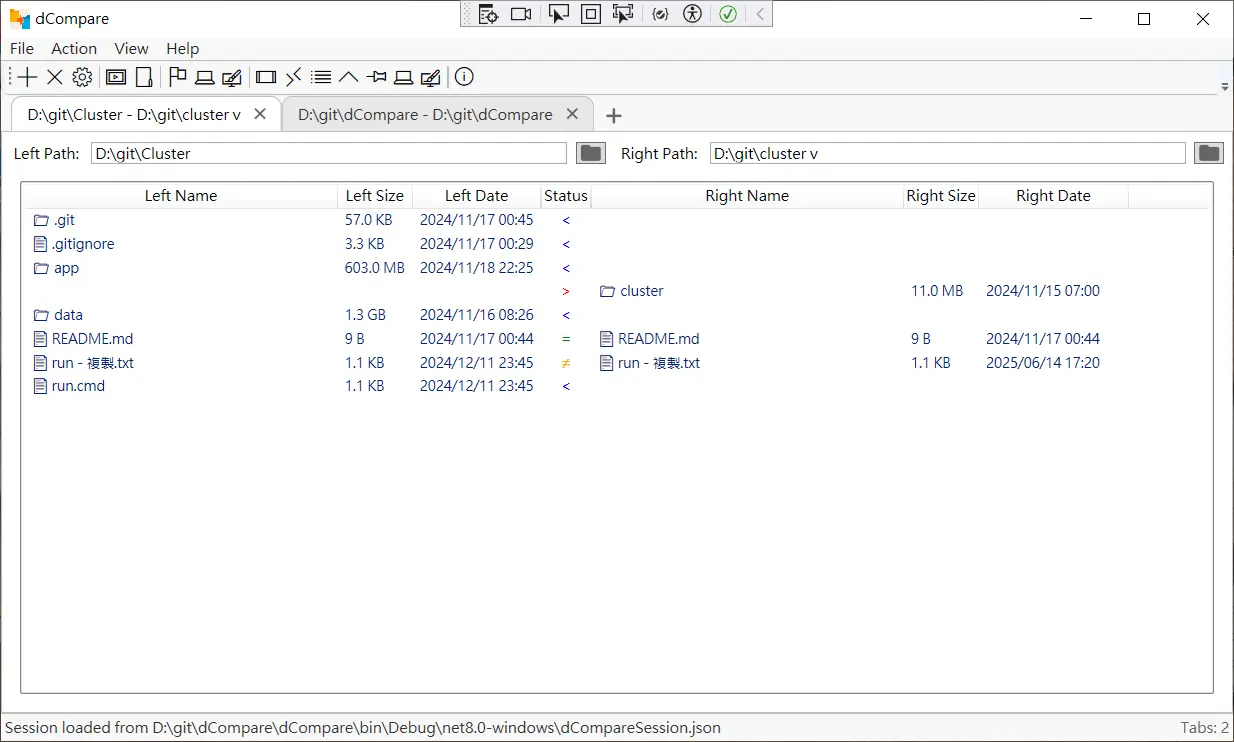
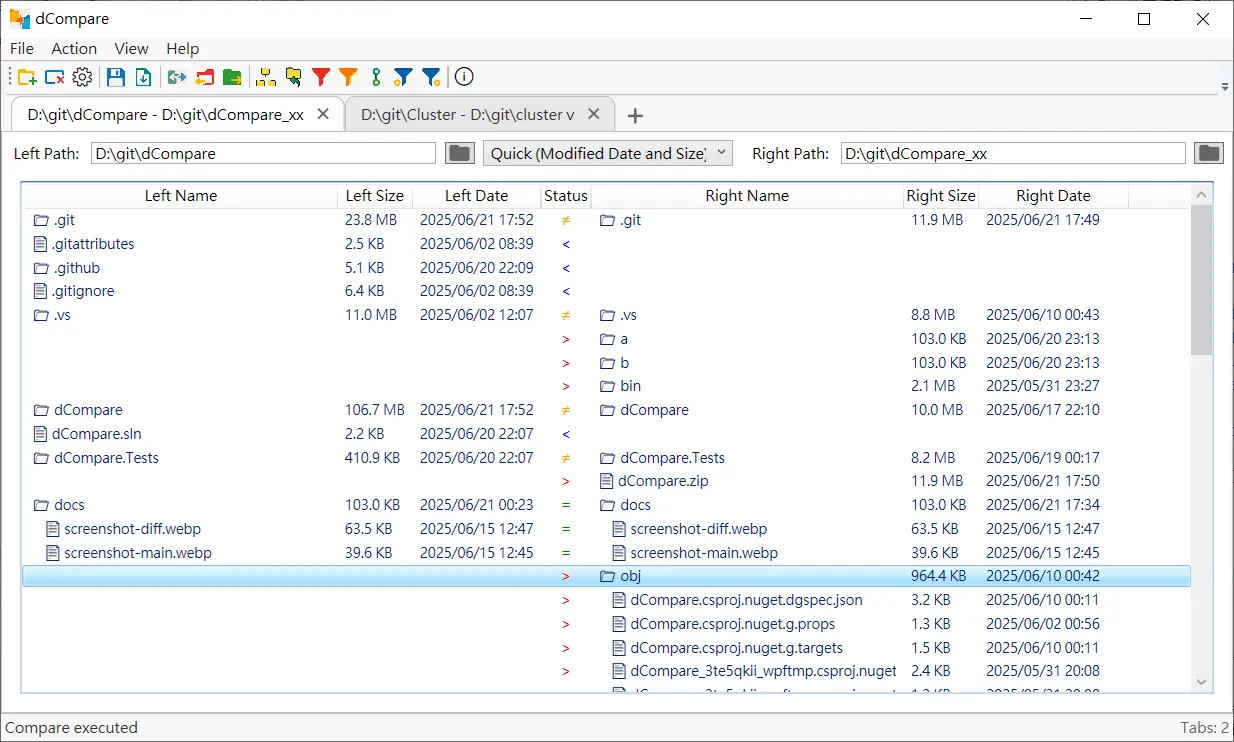
Modify READMD

diff --git a/README.md b/README.md
@@ -1,15 +1,29 @@
-# dCompare - A Directory/File Comparision Tool
+# dCompare - A Directory/File Comparison Tool
 
-![MainWindow ](docs/screenshot-main.webp)
+<a href="docs/screenshot-main.webp">
+  <img src="docs/screenshot-main.webp" alt="MainWindow" width="500">
+</a>
 
 **Disclosure**: Approximately 80% of this project's code was generated with the assistance of AI tools.
 
 ## Features
 
-- **Directory Comparison**: Compare folder structures to identify differences in files and subdirectories.
-- **File Operations**: Copy or move files between directories directly within the application.
-- **Text File Comparison**: View differences in text files (e.g., .txt, .cs, .json, .xml) side by side with color-coded highlights for insertions, deletions, and unchanged content.
-- **Image Comparison**: Display two images side by side for visual comparison, with automatic scaling to fit the window while preserving aspect ratio.
+- **Directory Comparison**: Compare folder structures to identify differences in files and subdirectories, with a side-by-side view showing file names, sizes, dates, and status symbols (e.g., identical, different, unique to left/right).
+- **Tabbed Interface**: Supports multiple comparison sessions in a Chrome-style tabbed layout, with drag-and-drop tab reordering, close buttons, and keyboard shortcuts (e.g., Ctrl+N for new tab, Ctrl+W to close tab).
+- **File Operations**: Copy or move files between directories directly within the application, with a dedicated file operation window showing queued, successful, and failed transfers, including progress, speed, and filtering capabilities.
+- **Text File Comparison**: View differences in text files (e.g., .txt, .cs, .json, .xml) side-by-side using DiffPlex, with color-coded highlights for insertions (green), deletions (red), and unchanged content, displayed in a scrollable ListBox with Consolas font.
+- **Image Comparison**: Display two images side-by-side for visual comparison, with automatic scaling to fit the window while preserving aspect ratio, using ScrollViewer for large images.
+- **Context Menus**: Right-click context menus on comparison results provide actions like comparing contents, copying/moving files, deleting, renaming, opening file locations, copying paths/filenames, and viewing properties.
+- **Session Management**: Save and load comparison sessions (Ctrl+S, Ctrl+O), with recent sessions accessible via the File menu, and options to auto-load default sessions on startup.
+- **Customizable Settings**: Configure via a settings window with sections for:
+  - UI (theme, language)
+  - Comparison algorithm and double-click action
+  - Text and image diff viewers with customizable file extensions
+  - Session settings (default session file, auto-load/compare)
+  - Hotkeys for various commands
+  - Logging (enable/disable, log level, retention days)
+- **Toolbar and Menu**: Unified menu and toolbar with icons for quick access to common actions like compare (Ctrl+R), copy to left/right, expand/collapse all, and filtering options (show all, different, identical, unique).
+- **Progress Feedback**: Displays comparison progress with a cancelable overlay showing percentage and a progress bar, plus a status bar indicating tab count and application status.
 
 ## Planned Features
 
@@ -17,13 +31,14 @@
 - **Archive File Support**: Add support for comparing archive files (e.g., .zip) using libraries like [SharpZipLib](https://github.com/icsharpcode/SharpZipLib).
 - **JSON-Specific Comparison**: Implement specialized comparison for JSON files to highlight structural differences.
 - **File Explorer Integration**: Associate dCompare with Windows File Explorer for quick access to comparisons.
-- **Customizable Double-Click Behavior**: Allow users to choose whether double-clicking a file opens a comparison view or displays file content.
-- **Custom Diff Viewer Selection**: Enable selection of diff viewers based on file extensions.
+- **Customizable Double-Click Behavior**: Allow users to choose whether double-clicking a file opens a comparison view or displays file content (currently configurable in settings).
+- **Custom Diff Viewer Selection**: Enable selection of diff viewers based on file extensions (partially implemented in settings).
 - **External Editor Support**: Configure a default external editor (e.g., Notepad by default at `%windir%\NOTEPAD.EXE`) for viewing or editing files.
 
 ## Known Issues
 
 - **Text Selection**: Partial text selection with the mouse is not supported in the text comparison view.
+- **Image Comparison**: No pixel-level difference highlighting in the image comparison view.
 
 ## Development
 
@@ -33,46 +48,46 @@
 - **DiffPlex**: Used for text file comparison. See [DiffPlex on GitHub](https://github.com/mmanela/diffplex).
 - **Serilog**: Used for logging application events and debugging.
 
-# 文件複製方法比較 (by ChatGPT)
+# File Copy Method Comparison (by ChatGPT)
 
-以下表格比較了在 .NET 8 中使用 `CopyFileEx`、`.NET File.Copy` 和 `FileStream` 三種方法進行文件和目錄複製的特性，針對需求：Windows 10 或以上、複製目錄、需要進度回調、保留元數據（如時間戳）、無複製視窗。
+Below is a table comparing three methods for file and directory copying in .NET 8—`CopyFileEx`, `.NET File.Copy`, and `FileStream`—based on requirements: Windows 10 or above, directory copying, progress callbacks, metadata preservation (e.g., timestamps), and no copy window.
 
-| **特性**                | **CopyFileEx**                                                                                                                                                                                                                                                                                                                                                  | **.NET File.Copy**                                                                                                                                                                                                                                          | **FileStream**                                                                                                                                                                                                                                                                                                                                                                                                                  |
-| ----------------------- | --------------------------------------------------------------------------------------------------------------------------------------------------------------------------------------------------------------------------------------------------------------------------------------------------------------------------------------------------------------- | ----------------------------------------------------------------------------------------------------------------------------------------------------------------------------------------------------------------------------------------------------------- | ------------------------------------------------------------------------------------------------------------------------------------------------------------------------------------------------------------------------------------------------------------------------------------------------------------------------------------------------------------------------------------------------------------------------------- |
-| **描述**                | Windows API 函數（`kernel32.dll`），低級文件複製，接近 `explorer.exe` 行為。                                                                                                                                                                                                                                                                                    | .NET 8 高級方法，封裝底層 API，簡單易用。                                                                                                                                                                                                                   | .NET 低級流式 I/O 類，靈活控制文件讀寫。                                                                                                                                                                                                                                                                                                                                                                                        |
-| **平台支持**            | 僅限 Windows（符合 Windows 10+ 需求）。                                                                                                                                                                                                                                                                                                                         | 跨平台（Windows、Linux、macOS）。                                                                                                                                                                                                                           | 跨平台（Windows、Linux、macOS）。                                                                                                                                                                                                                                                                                                                                                                                               |
-| **複製目錄**            | 需手寫遞歸遍歷文件和子目錄。                                                                                                                                                                                                                                                                                                                                    | 需手寫遞歸遍歷文件和子目錄。                                                                                                                                                                                                                                | 需手寫遞歸遍歷文件和子目錄。                                                                                                                                                                                                                                                                                                                                                                                                    |
-| **進度回調**            | **支持**：通過 `lpProgressRoutine` 提供單文件複製進度（已複製字節數），需手動計算目錄總進度。                                                                                                                                                                                                                                                                   | **不支持**：無進度回調，需改用 `FileStream` 手動計算。                                                                                                                                                                                                      | **支持**：通過計算已讀寫字節數實現，需手動累計目錄總進度。                                                                                                                                                                                                                                                                                                                                                                      |
-| **取消功能**            | **支持**：通過 `pbCancel` 布林值中途終止，類似 `explorer.exe` 取消按鈕。取消後需清理不完整文件。                                                                                                                                                                                                                                                                | **不支持**：除非異常，無法中途終止，需等待完成或終止進程。                                                                                                                                                                                                  | **支持**：通過 `CancellationToken` 在異步讀寫中實現，取消後需清理不完整文件。                                                                                                                                                                                                                                                                                                                                                   |
-| **元數據保留**          | **自動保留**：創建時間、修改時間、訪問時間、文件屬性（如只讀、隱藏）默認保留，無需額外代碼。                                                                                                                                                                                                                                                                    | **不保留**：目標文件時間戳設為當前時間，需用 `FileInfo` 手動設置（約 3-4 行/文件）。                                                                                                                                                                        | **不保留**：需用 `FileInfo` 手動設置元數據，與 `File.Copy` 相同。                                                                                                                                                                                                                                                                                                                                                               |
-| **效能**                | **略優**：直接調用 Windows API，無 .NET 運行時開銷，速度最快（差距 <1-2%）。                                                                                                                                                                                                                                                                                    | **略弱**：封裝底層 API，有少量 .NET 開銷。                                                                                                                                                                                                                  | **略弱**：.NET 流管理和運行時開銷，速度略低於 `CopyFileEx`，可通過調整緩衝區優化。                                                                                                                                                                                                                                                                                                                                              |
-| **內存使用**            | 流式複製，緩衝區大小由系統控制（通常 4KB-64KB），適合大文件。                                                                                                                                                                                                                                                                                                   | 流式複製，緩衝區由 .NET 管理，內存占用相近。                                                                                                                                                                                                                | 流式複製，緩衝區大小可自定義（例如 8KB），內存占用相近。                                                                                                                                                                                                                                                                                                                                                                        |
-| **異步支持**            | 同步 API，需通過 `Task` 封裝異步。                                                                                                                                                                                                                                                                                                                              | 同步方法，無原生異步，需改用 `FileStream`。                                                                                                                                                                                                                 | **原生支持**：`ReadAsync`/`WriteAsync` 提供異步，適合現代應用。                                                                                                                                                                                                                                                                                                                                                                 |
-| **易用性**              | **較複雜**：需 P/Invoke，實現進度/取消功能需處理回調和錯誤碼。                                                                                                                                                                                                                                                                                                  | **最簡單**：直接調用，異常處理符合 .NET 風格，但元數據需額外代碼。                                                                                                                                                                                          | **複雜**：需手動管理緩衝區、進度、取消和元數據，代碼量較多。                                                                                                                                                                                                                                                                                                                                                                    |
-| **錯誤處理**            | 使用 Windows 錯誤碼（`GetLastWin32Error`），需查閱文檔，調試較繁瑣。                                                                                                                                                                                                                                                                                            | .NET 異常（`IOException` 等），清晰易讀，調試友好。                                                                                                                                                                                                         | .NET 異常，與 `File.Copy` 相同，易於調試。                                                                                                                                                                                                                                                                                                                                                                                      |
-| **模擬 `explorer.exe`** | **最接近**：自動保留元數據，支持取消和進度回調，行為類似 `explorer.exe`。                                                                                                                                                                                                                                                                                       | **較弱**：需手動設置元數據，無進度/取消支持，模擬效果差。                                                                                                                                                                                                   | **中等**：支持進度和取消，但元數據需手動設置，模擬效果不如 `CopyFileEx`。                                                                                                                                                                                                                                                                                                                                                       |
-| **無複製視窗**          | **滿足**：純 API，無 GUI。                                                                                                                                                                                                                                                                                                                                      | **滿足**：無 GUI。                                                                                                                                                                                                                                          | **滿足**：無 GUI。                                                                                                                                                                                                                                                                                                                                                                                                              |
-| **代碼示例（單文件）**  | `csharp<br>[DllImport("kernel32.dll", SetLastError = true, CharSet = CharSet.Auto)]<br>private static extern bool CopyFileEx(string lpExistingFileName, string lpNewFileName, IntPtr lpProgressRoutine, IntPtr lpData, ref bool pbCancel, uint dwCopyFlags);<br>bool cancel = false;<br>CopyFileEx(source, dest, IntPtr.Zero, IntPtr.Zero, ref cancel, 0);<br>` | `csharp<br>File.Copy(source, dest, true);<br>FileInfo destInfo = new FileInfo(dest);<br>destInfo.CreationTime = sourceInfo.CreationTime;<br>destInfo.LastWriteTime = sourceInfo.LastWriteTime;<br>destInfo.LastAccessTime = sourceInfo.LastAccessTime;<br>` | `csharp<br>using FileStream sourceStream = File.OpenRead(source);<br>using FileStream destStream = File.Create(dest);<br>byte[] buffer = new byte[8192];<br>while ((bytesRead = await sourceStream.ReadAsync(buffer, 0, buffer.Length, token)) > 0) {<br>    await destStream.WriteAsync(buffer, 0, bytesRead, token);<br>}<br>FileInfo destInfo = new FileInfo(dest);<br>destInfo.CreationTime = sourceInfo.CreationTime;<br>` |
-| **針對需求評價**        | **最佳**：滿足所有需求（進度、取消、元數據、無 GUI），效能略優，代碼適中。                                                                                                                                                                                                                                                                                      | **不適合**：無進度/取消支持，元數據需手動設置，不滿足需求。                                                                                                                                                                                                 | **可行但次優**：支持進度和取消，但元數據需手動設置，代碼複雜，效能略低。                                                                                                                                                                                                                                                                                                                                                        |
+| **Feature**                      | **CopyFileEx**                                                                                                                                                                                                                                                                                                                                                  | **.NET File.Copy**                                                                                                                                                                                                                                          | **FileStream**                                                                                                                                                                                                                                                                                                                                                                                                                  |
+| -------------------------------- | --------------------------------------------------------------------------------------------------------------------------------------------------------------------------------------------------------------------------------------------------------------------------------------------------------------------------------------------------------------- | ----------------------------------------------------------------------------------------------------------------------------------------------------------------------------------------------------------------------------------------------------------- | ------------------------------------------------------------------------------------------------------------------------------------------------------------------------------------------------------------------------------------------------------------------------------------------------------------------------------------------------------------------------------------------------------------------------------- |
+| **Description**                  | Windows API function (`kernel32.dll`), low-level file copy, mimics `explorer.exe` behavior.                                                                                                                                                                                                                                                                     | .NET 8 high-level method, encapsulates underlying API, simple to use.                                                                                                                                                                                       | .NET low-level stream I/O class, flexible control over file read/write.                                                                                                                                                                                                                                                                                                                                                         |
+| **Platform Support**             | Windows only (meets Windows 10+ requirement).                                                                                                                                                                                                                                                                                                                   | Cross-platform (Windows, Linux, macOS).                                                                                                                                                                                                                     | Cross-platform (Windows, Linux, macOS).                                                                                                                                                                                                                                                                                                                                                                                         |
+| **Directory Copy**               | Requires manual recursive traversal of files and subdirectories.                                                                                                                                                                                                                                                                                                | Requires manual recursive traversal of files and subdirectories.                                                                                                                                                                                            | Requires manual recursive traversal of files and subdirectories.                                                                                                                                                                                                                                                                                                                                                                |
+| **Progress Callback**            | **Supported**: Via `lpProgressRoutine`, provides per-file copy progress (bytes copied), requires manual directory progress calculation.                                                                                                                                                                                                                         | **Not Supported**: No progress callbacks, requires `FileStream` for manual calculation.                                                                                                                                                                     | **Supported**: Via tracking bytes read/written, requires manual directory progress accumulation.                                                                                                                                                                                                                                                                                                                                |
+| **Cancel Functionality**         | **Supported**: Via `pbCancel` boolean, allows mid-operation termination, similar to `explorer.exe` cancel button. Requires cleanup of incomplete files post-cancel.                                                                                                                                                                                             | **Not Supported**: Cannot terminate mid-operation unless via exception or process termination.                                                                                                                                                              | **Supported**: Via `CancellationToken` in async read/write, requires cleanup of incomplete files post-cancel.                                                                                                                                                                                                                                                                                                                   |
+| **Metadata Preservation**        | **Automatic**: Preserves creation, modification, access times, and attributes (e.g., read-only, hidden) by default, no extra code needed.                                                                                                                                                                                                                       | **Not Preserved**: Sets target file timestamps to current time, requires manual setting via `FileInfo` (3-4 lines/file).                                                                                                                                    | **Not Preserved**: Requires manual setting of metadata via `FileInfo`, similar to `File.Copy`.                                                                                                                                                                                                                                                                                                                                  |
+| **Performance**                  | **Slightly Better**: Direct Windows API call, no .NET runtime overhead, fastest (<1-2% difference).                                                                                                                                                                                                                                                             | **Slightly Weaker**: Encapsulates underlying API, minor .NET overhead.                                                                                                                                                                                      | **Slightly Weaker**: .NET stream management and runtime overhead, slightly slower than `CopyFileEx`, optimizable via buffer size.                                                                                                                                                                                                                                                                                               |
+| **Memory Usage**                 | Streamed copy, buffer size system-controlled (typically 4KB-64KB), suitable for large files.                                                                                                                                                                                                                                                                    | Streamed copy, buffer managed by .NET, similar memory usage.                                                                                                                                                                                                | Streamed copy, customizable buffer size (e.g., 8KB), similar memory usage.                                                                                                                                                                                                                                                                                                                                                      |
+| **Async Support**                | Synchronous API, requires `Task` wrapping for async.                                                                                                                                                                                                                                                                                                            | Synchronous method, no native async, requires `FileStream` for async.                                                                                                                                                                                       | **Native Support**: `ReadAsync`/`WriteAsync` provide async, suitable for modern apps.                                                                                                                                                                                                                                                                                                                                           |
+| **Ease of Use**                  | **More Complex**: Requires P/Invoke, progress/cancel implementation needs callback and error code handling.                                                                                                                                                                                                                                                     | **Simplest**: Direct call, .NET-style exception handling, but metadata requires extra code.                                                                                                                                                                 | **Complex**: Requires manual buffer, progress, cancel, and metadata management, more code.                                                                                                                                                                                                                                                                                                                                      |
+| **Error Handling**               | Uses Windows error codes (`GetLastWin32Error`), requires documentation lookup, debugging tedious.                                                                                                                                                                                                                                                               | .NET exceptions (`IOException`, etc.), clear and readable, debug-friendly.                                                                                                                                                                                  | .NET exceptions, same as `File.Copy`, debug-friendly.                                                                                                                                                                                                                                                                                                                                                                           |
+| **Mimic `explorer.exe`**         | **Closest**: Auto-preserves metadata, supports cancel/progress, behaves like `explorer.exe`.                                                                                                                                                                                                                                                                    | **Weaker**: Requires manual metadata setting, no progress/cancel, poor mimicry.                                                                                                                                                                             | **Moderate**: Supports progress/cancel, but metadata requires manual setting, less mimicry than `CopyFileEx`.                                                                                                                                                                                                                                                                                                                   |
+| **No Copy Window**               | **Meets**: Pure API, no GUI.                                                                                                                                                                                                                                                                                                                                    | **Meets**: No GUI.                                                                                                                                                                                                                                          | **Meets**: No GUI.                                                                                                                                                                                                                                                                                                                                                                                                              |
+| **Code Example (Single File)**   | `csharp<br>[DllImport("kernel32.dll", SetLastError = true, CharSet = CharSet.Auto)]<br>private static extern bool CopyFileEx(string lpExistingFileName, string lpNewFileName, IntPtr lpProgressRoutine, IntPtr lpData, ref bool pbCancel, uint dwCopyFlags);<br>bool cancel = false;<br>CopyFileEx(source, dest, IntPtr.Zero, IntPtr.Zero, ref cancel, 0);<br>` | `csharp<br>File.Copy(source, dest, true);<br>FileInfo destInfo = new FileInfo(dest);<br>destInfo.CreationTime = sourceInfo.CreationTime;<br>destInfo.LastWriteTime = sourceInfo.LastWriteTime;<br>destInfo.LastAccessTime = sourceInfo.LastAccessTime;<br>` | `csharp<br>using FileStream sourceStream = File.OpenRead(source);<br>using FileStream destStream = File.Create(dest);<br>byte[] buffer = new byte[8192];<br>while ((bytesRead = await sourceStream.ReadAsync(buffer, 0, buffer.Length, token)) > 0) {<br>    await destStream.WriteAsync(buffer, 0, bytesRead, token);<br>}<br>FileInfo destInfo = new FileInfo(dest);<br>destInfo.CreationTime = sourceInfo.CreationTime;<br>` |
+| **Suitability for Requirements** | **Best**: Meets all requirements (progress, cancel, directories, metadata, no GUI), slightly better performance, moderate code.                                                                                                                                                                                                                                 | **Unsuitable**: Lacks progress/cancel, requires manual metadata, fails requirements.                                                                                                                                                                        | **Viable but Suboptimal**: Supports progress/cancelation, but requires manual metadata, more complex and slightly slower.                                                                                                                                                                                                                                                                                                       |
 
-## 針對需求（Windows 10+、目錄複製、進度回調、元數據保留）的建議
+## Recommendations for Requirements (Windows 10+, Directory Copy, Progress Callback, Metadata, No GUI)
 
-- **首選 `CopyFileEx`**：
-  - 自動保留元數據，無需額外代碼。
-  - 原生支持進度回調（`lpProgressRoutine`）和取消（`pbCancel`），適合目錄複製和用戶交互。
-  - 效能略優，與 `explorer.exe` 行為最接近。
-  - 參考實現：前述 `DirectoryCopier` 類（包含目錄遞歸、進度、取消）。
-- **次選 `FileStream`**：
-  - 支持進度和取消，適合偏好 .NET 原生 API 或未來跨平台。
-  - 元數據需手動設置，代碼較複雜，效能略低。
-  - 參考實現：前述 `FileStream` 目錄複製示例。
-- **避免 `File.Copy`**：
-  - 無進度或取消支持，無法滿足需求。
-  - 用 Task Manager 終止進程可行，但不推薦，因可能導致不完整文件或數據不一致，無清理邏輯。
+- **Primary Choice: `CopyFileEx`**:
+  - Automatically preserves metadata, no extra code needed.
+  - Native support for progress callbacks (`lpProgressRoutine`) and cancellation (`pbCancel`), ideal for directory operations and UI integration.
+  - Slightly better performance, closest behavior to `explorer.exe`.
+  - Reference: `DirectoryCopier` class implementation (includes recursion, progress, cancellation).
+- **Secondary Choice: `FileStream`**:
+  - Supports progress and cancellation, suitable for .NET-native or future cross-platform apps.
+  - Requires manual metadata handling, more complex code, slightly lower performance.
+  - Reference: `FileStream` directory copy example above.
+- **Avoid: `File.Copy`**:
+  - Lacks progress/cancellation support, requires manual metadata setting, does not meet requirements.
+  - Terminating via Task Manager is possible but not recommended due to potential incomplete files or data inconsistency without cleanup logic.
 
-## 注意事項
+## Notes
 
-- **取消後清理**：`CopyFileEx` 和 `FileStream` 取消後需刪除不完整文件/目錄，防止殞留垃圾數據。
-- **進度回調頻率**：測試大目錄或網絡路徑，確保回調頻率不過高，可限制更新頻率優化性能。
-- **權限**：確保對源文件有讀權限，對目標路徑有寫權限。
-- **UI 集成**：若需進度條，將進度回調連接到 UI 更新（例如 WPF/WinForms）。
+- **Post-Cancellation Cleanup**: `CopyFileEx` and `FileStream` require deleting incomplete files/directories after cancellation to avoid residual data.
+- **Progress Callback Frequency**: Test with large directories or network paths to ensure callback frequency isn’t too high; limit update frequency for performance.
+- **Permissions**: Ensure read permissions for source files and write permissions for destination paths.
+- **UI Integration**: Connect progress callbacks to UI updates (e.g., WPF progress bars in `FileOperationWindow.xaml`) for real-time feedback.
